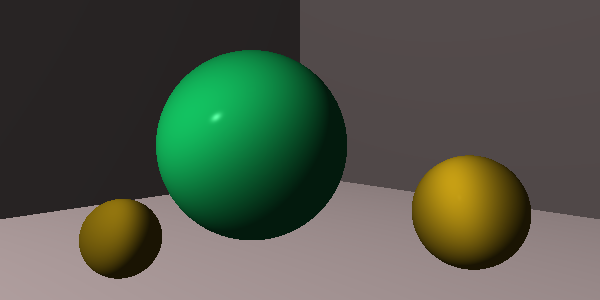
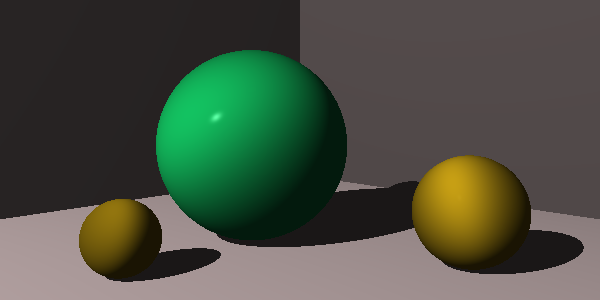
Fixed shadows

diff --git a/trace/light.go b/trace/light.go
@@ -43,7 +43,7 @@ func (m Material) Lighting(light Light, point, eye, normal Tuple, inShadow bool)
 	}
 
 	if inShadow {
-		return ambient.Add(diffuse)
+		return ambient
 	} else {
 		return ambient.Add(diffuse).Add(specular)
 	}
